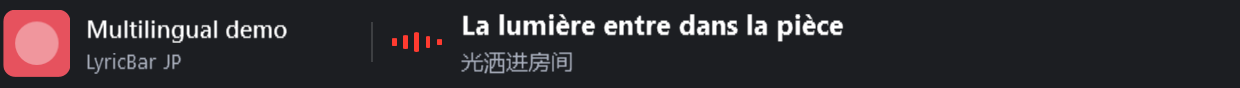
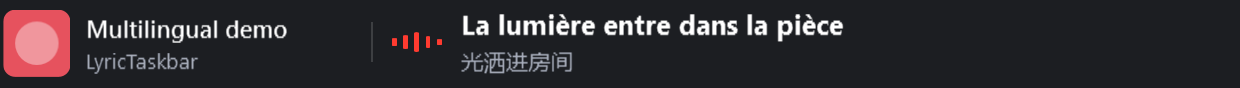
Rename project to LyricTaskbar and migrate legacy startup entries

Changed region(s): [[0.0919, 0.6136, 0.1839, 0.7955]]

diff --git a/Views/TaskbarLyricsWindow.xaml b/Views/TaskbarLyricsWindow.xaml
@@ -6,7 +6,7 @@
         xmlns:mc="http://schemas.openxmlformats.org/markup-compatibility/2006"
         xmlns:converters="clr-namespace:DesktopLyrics.Converters"
         mc:Ignorable="d"
-        Title="LyricBar JP"
+        Title="LyricTaskbar"
         ToolTip="{Binding SourceStatus}"
         WindowStyle="None"
         AllowsTransparency="True"

diff --git a/Services/AutoStartService.cs b/Services/AutoStartService.cs
@@ -10,25 +10,32 @@ public interface IAutoStartStore
     void Remove();
 }
 
-/// <summary>Owns one value in the current user's Windows login Run key.</summary>
+/// <summary>Owns the current and legacy application values in the user's Windows login Run key.</summary>
 public sealed class RegistryAutoStartStore(string keyPath = RegistryAutoStartStore.RunKey) : IAutoStartStore
 {
     public const string RunKey = @"Software\Microsoft\Windows\CurrentVersion\Run";
-    public const string ValueName = "LyricBarJP";
+    public const string ValueName = "LyricTaskbar";
+    public const string LegacyValueName = "LyricBarJP";
     public string? Read()
     {
         using var key = Registry.CurrentUser.OpenSubKey(keyPath, writable: false);
-        return key?.GetValue(ValueName) as string;
+        var current = key?.GetValue(ValueName) as string;
+        return !string.IsNullOrWhiteSpace(current) ? current : key?.GetValue(LegacyValueName) as string;
     }
     public void Write(string command)
     {
         using var key = Registry.CurrentUser.CreateSubKey(keyPath, writable: true);
         key.SetValue(ValueName, command, RegistryValueKind.String);
+        // Remove the old name only after the replacement is confirmed, avoiding duplicate starts.
+        if (!string.Equals(key.GetValue(ValueName) as string, command, StringComparison.Ordinal))
+            throw new IOException("The replacement login entry could not be saved.");
+        key.DeleteValue(LegacyValueName, throwOnMissingValue: false);
     }
     public void Remove()
     {
         using var key = Registry.CurrentUser.OpenSubKey(keyPath, writable: true);
         key?.DeleteValue(ValueName, throwOnMissingValue: false);
+        key?.DeleteValue(LegacyValueName, throwOnMissingValue: false);
     }
 }
 
@@ -39,15 +46,17 @@ public sealed class AutoStartService
     public AutoStartService(IAutoStartStore? store = null, string? executable = null)
     {
         _store = store ?? new RegistryAutoStartStore();
-        _executable = executable ?? Environment.ProcessPath ?? Path.Combine(AppContext.BaseDirectory, "LyricBarJP.exe");
+        _executable = executable ?? Environment.ProcessPath ?? Path.Combine(AppContext.BaseDirectory, "LyricTaskbar.exe");
     }
     public bool IsEnabled => !string.IsNullOrWhiteSpace(_store.Read());
     public static bool IsStartupInvocation(string[] args) => args.Length == 1 && args[0] == "--startup";
     public static string CommandFor(string executable)
     {
         var path = Path.GetFullPath(executable);
-        if (!string.Equals(Path.GetFileName(path), "LyricBarJP.exe", StringComparison.OrdinalIgnoreCase) || path.Contains('"'))
-            throw new InvalidOperationException("Use the published LyricBarJP.exe to configure auto-start.");
+        string name = Path.GetFileName(path);
+        if ((!string.Equals(name, "LyricTaskbar.exe", StringComparison.OrdinalIgnoreCase)
+            && !string.Equals(name, "LyricBarJP.exe", StringComparison.OrdinalIgnoreCase)) || path.Contains('"'))
+            throw new InvalidOperationException("Use the published LyricTaskbar.exe to configure auto-start.");
         return $"\"{path}\" --startup";
     }
     public void SetEnabled(bool enabled)

diff --git a/App.xaml.cs b/App.xaml.cs
@@ -51,6 +51,7 @@ namespace DesktopLyrics
                 return;
             }
 
+            // Retain the legacy mutex so old and renamed versions cannot run together.
             _instanceMutex = new System.Threading.Mutex(true, "Local\\LyricBarJP-Personal", out var created);
             if (!created) { Shutdown(); return; }
 
@@ -76,7 +77,7 @@ namespace DesktopLyrics
             catch (Exception ex) { System.Diagnostics.Debug.WriteLine($"[AutoStart] {ex.Message}"); }
             _lyricsService = new LyricsService();
             _mediaService = new MediaSessionService();
-            // Personal build keeps its Japanese additions; upstream update prompts are disabled.
+            // Automatic update prompts remain disabled for this derivative.
             _viewModel = new LyricsViewModel(_mediaService, _lyricsService, _settingsService);
 
             _lyricsWindow = new TaskbarLyricsWindow(_viewModel);
@@ -112,7 +113,7 @@ namespace DesktopLyrics
             _notifyIcon = new NotifyIcon
             {
                 Icon = _appIcon,
-                Text = "LyricBar JP - 多语言双语歌词",
+                Text = "LyricTaskbar - 多语言双语歌词",
                 Visible = true
             };
 
@@ -225,7 +226,7 @@ namespace DesktopLyrics
             {
                 MessageBox.Show(
                     I18n.AboutDialog(UpdateCheckService.CurrentVersion),
-                    "LyricBar",
+                    "LyricTaskbar",
                     MessageBoxButton.OK,
                     MessageBoxImage.Information);
             });
@@ -292,7 +293,7 @@ namespace DesktopLyrics
             autoStartItem.Click += (s, e) =>
             {
                 try { _autoStartService?.SetEnabled(!(_autoStartService?.IsEnabled ?? false)); }
-                catch (Exception ex) { MessageBox.Show(I18n.AutoStartFailed + "\n" + ex.Message, "LyricBar JP", MessageBoxButton.OK, MessageBoxImage.Warning); }
+                catch (Exception ex) { MessageBox.Show(I18n.AutoStartFailed + "\n" + ex.Message, "LyricTaskbar", MessageBoxButton.OK, MessageBoxImage.Warning); }
                 RefreshAutoStartItem();
             };
             RefreshAutoStartItem();
@@ -321,7 +322,7 @@ namespace DesktopLyrics
         {
             if (_mediaService?.CurrentTrack.IsEmpty != false)
             {
-                MessageBox.Show(I18n.PlayFirst, "LyricBar JP"); return;
+                MessageBox.Show(I18n.PlayFirst, "LyricTaskbar"); return;
             }
             try
             {
@@ -332,7 +333,7 @@ namespace DesktopLyrics
                 if (translated.ShowDialog() == DialogResult.OK) translation = LocalLyricsStore.ReadLrcFile(translated.FileName);
                 _viewModel?.ImportLyrics(LocalLyricsStore.ReadLrcFile(original.FileName), translation);
             }
-            catch (Exception ex) { MessageBox.Show(ex.Message, "LyricBar JP", MessageBoxButton.OK, MessageBoxImage.Warning); }
+            catch (Exception ex) { MessageBox.Show(ex.Message, "LyricTaskbar", MessageBoxButton.OK, MessageBoxImage.Warning); }
         }
 
         private void PopulateMonitorMenu(ToolStripMenuItem monitorMenu)

diff --git a/Services/AutoStartDiagnostics.cs b/Services/AutoStartDiagnostics.cs
@@ -9,7 +9,7 @@ public static class AutoStartDiagnostics
     public static void Verify(string path)
     {
         // This private HKCU test key is not a Windows Run key and cannot launch anything.
-        string testKey = @"Software\LyricBarJP-AutoStartTest-" + Guid.NewGuid().ToString("N");
+        string testKey = @"Software\LyricTaskbar-AutoStartTest-" + Guid.NewGuid().ToString("N");
         var production = new RegistryAutoStartStore(); string? originalProduction = production.Read();
         var checks = new List<string>();
         void Check(bool value, string label) { if (!value) throw new InvalidOperationException(label); checks.Add(label); }
@@ -23,6 +23,19 @@ public static class AutoStartDiagnostics
             Check(store.Read() == AutoStartService.CommandFor(Environment.ProcessPath!), "published executable is quoted and registered with --startup");
             service.SetEnabled(false);
             Check(!service.IsEnabled, "disabling removes the owned registry value");
+            using (var key = Registry.CurrentUser.OpenSubKey(testKey, writable: true))
+                key!.SetValue(RegistryAutoStartStore.LegacyValueName, "\"C:\\old folder\\LyricBarJP.exe\" --startup");
+            Check(service.IsEnabled, "existing legacy registry name is detected as enabled");
+            service.RefreshRegisteredPath();
+            using (var key = Registry.CurrentUser.OpenSubKey(testKey))
+                Check((string?)key!.GetValue(RegistryAutoStartStore.ValueName) == AutoStartService.CommandFor(Environment.ProcessPath!)
+                    && key.GetValue(RegistryAutoStartStore.LegacyValueName) == null, "legacy login entry migrates to the new name and executable with no duplicate entry");
+            using (var key = Registry.CurrentUser.OpenSubKey(testKey, writable: true))
+                key!.SetValue(RegistryAutoStartStore.LegacyValueName, "legacy fixture");
+            service.SetEnabled(false);
+            using (var key = Registry.CurrentUser.OpenSubKey(testKey))
+                Check(key!.GetValue(RegistryAutoStartStore.ValueName) == null && key.GetValue(RegistryAutoStartStore.LegacyValueName) == null,
+                    "disabling clears both owned login names so the old version cannot restart");
             using (var key = Registry.CurrentUser.OpenSubKey(testKey)) Check((string?)key?.GetValue("OtherApplication") == "keep", "unrelated registry values are preserved");
             Check(production.Read() == originalProduction, "real Windows auto-start setting remains unchanged");
         }

diff --git a/Tests/AutoStartChecks.cs b/Tests/AutoStartChecks.cs
@@ -6,7 +6,7 @@ internal static class AutoStartChecks
     public static void Run(Action<bool, string> check, string scratch)
     {
         var store = new FakeStore();
-        var executable = Path.Combine(scratch, "歌词程序 with spaces", "LyricBarJP.exe");
+        var executable = Path.Combine(scratch, "歌词程序 with spaces", "LyricTaskbar.exe");
         Directory.CreateDirectory(Path.GetDirectoryName(executable)!); File.WriteAllText(executable, "isolated executable fixture");
         var service = new AutoStartService(store, executable);
         service.RefreshRegisteredPath();
@@ -20,10 +20,12 @@ internal static class AutoStartChecks
         check(store.Command == AutoStartService.CommandFor(executable), "an already-enabled entry follows the new release location");
         int writes = store.Writes; service.RefreshRegisteredPath();
         check(store.Writes == writes, "unchanged startup paths are not repeatedly rewritten");
+        var legacyExecutable = Path.Combine(scratch, "旧版文件夹", "LyricBarJP.exe");
+        check(AutoStartService.CommandFor(legacyExecutable) == $"\"{legacyExecutable}\" --startup", "legacy executable filename remains accepted when upgrading in place");
         check(AutoStartService.IsStartupInvocation(new[] { "--startup" }) && !AutoStartService.IsStartupInvocation(Array.Empty<string>()) && !AutoStartService.IsStartupInvocation(new[] { "--probe", "a" }), "login launch is accepted without confusing diagnostic commands");
         try { AutoStartService.CommandFor(Path.Combine(scratch, "dotnet.exe")); check(false, "invalid launch host"); }
         catch (InvalidOperationException) { check(true, "the dotnet host cannot accidentally become the startup application"); }
-        var missing = new AutoStartService(new FakeStore(), Path.Combine(scratch, "missing", "LyricBarJP.exe"));
+        var missing = new AutoStartService(new FakeStore(), Path.Combine(scratch, "missing", "LyricTaskbar.exe"));
         try { missing.SetEnabled(true); check(false, "missing startup executable"); }
         catch (FileNotFoundException) { check(!missing.IsEnabled, "missing executables cannot create a broken startup entry"); }
         var failedStore = new FakeStore { RejectWrites = true };

diff --git a/Services/UpdateCheckService.cs b/Services/UpdateCheckService.cs
@@ -10,8 +10,8 @@ namespace DesktopLyrics.Services
 {
     public class UpdateCheckService
     {
-        public const string CurrentVersion = "v1.5.1-personal";
-        private const string GitHubApiLatestUrl = "https://api.github.com/repos/ysheng920/LyricBar/releases/latest";
+        public const string CurrentVersion = "v1.5.2";
+        private const string GitHubApiLatestUrl = "https://api.github.com/repos/ERiC808222/LyricTaskbar/releases/latest";
 
         private readonly HttpClient _httpClient;
         private readonly DispatcherTimer _periodicTimer;
@@ -28,7 +28,7 @@ namespace DesktopLyrics.Services
             {
                 Timeout = TimeSpan.FromSeconds(8)
             };
-            _httpClient.DefaultRequestHeaders.Add("User-Agent", "LyricBar-UpdateChecker");
+            _httpClient.DefaultRequestHeaders.Add("User-Agent", "LyricTaskbar-UpdateChecker");
 
             // Periodic check every 6 hours
             _periodicTimer = new DispatcherTimer
@@ -57,7 +57,7 @@ namespace DesktopLyrics.Services
                 {
                     LatestVersion = release.TagName.Trim();
                     LatestReleaseUrl = string.IsNullOrWhiteSpace(release.HtmlUrl)
-                        ? "https://github.com/ysheng920/LyricBar/releases/latest"
+                        ? "https://github.com/ERiC808222/LyricTaskbar/releases/latest"
                         : release.HtmlUrl;
 
                     if (IsNewerVersion(LatestVersion, CurrentVersion))
@@ -102,7 +102,7 @@ namespace DesktopLyrics.Services
             try
             {
                 var targetUrl = string.IsNullOrWhiteSpace(url)
-                    ? "https://github.com/ysheng920/LyricBar/releases/latest"
+                    ? "https://github.com/ERiC808222/LyricTaskbar/releases/latest"
                     : url;
 
                 Process.Start(new ProcessStartInfo

diff --git a/Services/I18nService.cs b/Services/I18nService.cs
@@ -90,8 +90,8 @@ public static class I18n
     public static string NewVersionFound(string tag) => tag;
     public static string NewVersionNotificationTitle(string tag) => tag;
     public static string NewVersionNotificationBody => T("View upstream releases", "查看原版发布", "元のリリースを表示");
-    public static string AboutMenu => T("About LyricBar JP", "关于 LyricBar JP", "LyricBar JPについて");
-    public static string AboutDialog(string version) => $"LyricBar JP {version}\n" + T("Multilingual lyrics with available Chinese translations. Based on ysheng920/LyricBar (MIT).", "多语言原歌词＋现有中文译文。基于 ysheng920/LyricBar（MIT），保留原版许可。", "多言語の歌詞＋既存の中国語訳。ysheng920/LyricBar（MIT）を基に作成。");
+    public static string AboutMenu => T("About LyricTaskbar", "关于 LyricTaskbar", "LyricTaskbarについて");
+    public static string AboutDialog(string version) => $"LyricTaskbar {version}\n" + T("Multilingual lyrics with available Chinese translations. Based on ysheng920/LyricBar (MIT).", "多语言原歌词＋现有中文译文。基于 ysheng920/LyricBar（MIT），保留原版许可。", "多言語の歌詞＋既存の中国語訳。ysheng920/LyricBar（MIT）を基に作成。");
     public static string LyricsSourceMenu => T("Lyrics source", "歌词来源", "歌詞の取得先");
     public static string SourceModeName(LyricsSourceMode mode) => mode switch
     {

diff --git a/Tests/Program.cs b/Tests/Program.cs
@@ -8,7 +8,7 @@ using DesktopLyrics.Services;
 
 var count = 0;
 void Check(bool condition, string name) { if (!condition) throw new Exception(name); Console.WriteLine("PASS " + name); count++; }
-var scratch = Path.Combine(Path.GetTempPath(), "LyricBar-tests-" + Guid.NewGuid());
+var scratch = Path.Combine(Path.GetTempPath(), "LyricTaskbar-tests-" + Guid.NewGuid());
 Directory.CreateDirectory(scratch);
 
 var lines = LrcParser.ParseBilingual("[offset:+100]\n[00:01.050]窓の光\n[00:02.000]\n[00:03.000]雨の音", "[offset:+100]\n[00:01.070]窗边的光\n[00:09.000]不要错配");
@@ -50,7 +50,7 @@ AutoStartChecks.Run(Check, scratch);
 FullscreenChecks.Run(Check, scratch);
 DisplayPlacementChecks.Run(Check);
 await MultilingualChecks.Run(Check, scratch);
-foreach (var language in Enum.GetValues<AppLanguage>()) { I18n.CurrentLanguage = language; Check(I18n.SelectTranslation.Length > 0 && I18n.AboutDialog("1.2").Length > 0, "localized UI " + language); }
+foreach (var language in Enum.GetValues<AppLanguage>()) { I18n.CurrentLanguage = language; Check(I18n.SelectTranslation.Length > 0 && I18n.AboutDialog("1.2").Contains("LyricTaskbar") && I18n.AboutMenu.Contains("LyricTaskbar"), "localized UI " + language); }
 Console.WriteLine($"{count} checks passed.");
 
 sealed class FakeHandler(bool qqTranslation) : HttpMessageHandler

diff --git a/Services/MultilingualDiagnostics.cs b/Services/MultilingualDiagnostics.cs
@@ -31,7 +31,7 @@ public static class MultilingualDiagnostics
         Directory.CreateDirectory(folder); var checks = new List<string>();
         void Check(bool value, string name) { if (!value) throw new InvalidOperationException(name); checks.Add(name); }
         var media = new MediaSessionService(); var settings = new SettingsService(Path.Combine(folder, "isolated-settings"));
-        var model = new LyricsViewModel(media, new LyricsService(), settings) { Theme = AppTheme.Dark, TrackTitle = "Multilingual demo", TrackArtist = "LyricBar JP", CoverArt = DemoCover(Color.FromRgb(230, 82, 94)) };
+        var model = new LyricsViewModel(media, new LyricsService(), settings) { Theme = AppTheme.Dark, TrackTitle = "Multilingual demo", TrackArtist = "LyricTaskbar", CoverArt = DemoCover(Color.FromRgb(230, 82, 94)) };
         var samples = new Dictionary<string, (string Original, string Chinese)>
         {
             ["korean"] = ("봄빛이 창가에 머물러요", "春光停在窗边"), ["tibetan"] = ("བོད་སྐད་ཀྱི་གླུ་དབྱངས་སྙན་མོ།", "藏语歌声悠扬"),

diff --git a/Services/LyricsService.cs b/Services/LyricsService.cs
@@ -21,7 +21,7 @@ public class LyricsService
     public LyricsService(HttpClient? http = null, LocalLyricsStore? local = null, LyricsSourceMode mode = LyricsSourceMode.Auto)
     {
         _http = http ?? new HttpClient { Timeout = TimeSpan.FromSeconds(7) };
-        _http.DefaultRequestHeaders.TryAddWithoutValidation("User-Agent", "LyricBarJP/1.2 (personal desktop lyrics)");
+        _http.DefaultRequestHeaders.TryAddWithoutValidation("User-Agent", "LyricTaskbar/1.5.2 (desktop lyrics)");
         _local = local ?? new LocalLyricsStore();
         _apple = new AppleLyricsSource(http);
         _amll = new AmllLyricsSource(http);

diff --git a/README.md b/README.md
@@ -1,12 +1,12 @@
-<p align="center"><img src="Assets/AppIcon.png" width="96" alt="LyricBar JP 图标" /></p>
+<p align="center"><img src="Assets/AppIcon.png" width="96" alt="LyricTaskbar 图标" /></p>
 
-# LyricBar JP
+# LyricTaskbar
 
 Windows 11 任务栏歌词工具，优先识别 Windows 版 Apple Music，显示原文歌词和已有中文译文。
 
-基于 [ysheng920/LyricBar](https://github.com/ysheng920/LyricBar) 的独立修改版，沿用 MIT 许可证。当前版本 **1.5.1**。
+基于 [ysheng920/LyricBar](https://github.com/ysheng920/LyricBar) 的独立修改版，沿用 MIT 许可证。当前版本 **1.5.2**。
 
-[下载 Windows x64 版](https://github.com/ERiC808222/LyricBar-JP/releases/latest) · [更新记录](CHANGELOG.md) · [项目来源](UPSTREAM.md) · [验证范围](docs/VALIDATION.md)
+[下载 Windows x64 版](https://github.com/ERiC808222/LyricTaskbar/releases/latest) · [更新记录](CHANGELOG.md) · [项目来源](UPSTREAM.md) · [验证范围](docs/VALIDATION.md)
 
 ## 功能
 
@@ -28,10 +28,12 @@ Windows 11 任务栏歌词工具，优先识别 Windows 版 Apple Music，显示
 
 ## 下载与使用
 
-1. 在 [Releases](https://github.com/ERiC808222/LyricBar-JP/releases/latest) 下载 `LyricBar-JP-v1.5.1-win-x64.zip`，解压到固定目录。
+1. 在 [Releases](https://github.com/ERiC808222/LyricTaskbar/releases/latest) 下载 `LyricTaskbar-v1.5.2-win-x64.zip`，解压到固定目录。
 2. 安装 **.NET 9 Desktop Runtime x64**（需要 Desktop Runtime，而不是仅 .NET Runtime）。[微软下载页](https://dotnet.microsoft.com/download/dotnet/9.0)。
-3. 运行 `LyricBarJP.exe`，再打开 Windows 版 Apple Music 播放歌曲。
+3. 运行 `LyricTaskbar.exe`，再打开 Windows 版 Apple Music 播放歌曲。
 4. 右键托盘图标设置歌词来源、界面语言、显示效果、开机自启等；双击托盘图标切换位置锁定。
+
+本项目原名 LyricBar JP，1.5.2 起改名为 **LyricTaskbar**。从旧版更新时，可将原 `Data` 目录放到新 EXE 旁；已开启的开机自启会迁移至新名称和路径，关闭状态不会自动开启。
 
 程序使用便携式配置：设置、导入歌词与索引缓存存放在 EXE 旁的 `Data` 目录。请使用有写权限的文件夹。更新时退出旧版、替换程序，保留原 `Data` 目录；开机自启已开启时，运行新位置的程序会更新该启动路径。
 
@@ -53,33 +55,33 @@ Windows 11 任务栏歌词工具，优先识别 Windows 版 Apple Music，显示
 需要 Windows x64 和 .NET 9 SDK：
 
 ```powershell
-git clone https://github.com/ERiC808222/LyricBar-JP.git
-cd LyricBar-JP
-powershell -NoProfile -ExecutionPolicy Bypass -File Build-JP.ps1
+git clone https://github.com/ERiC808222/LyricTaskbar.git
+cd LyricTaskbar
+powershell -NoProfile -ExecutionPolicy Bypass -File Build.ps1
 ```
 
-程序位于 `publish/LyricBarJP.exe`。默认依赖桌面运行库；如需将运行库一并打包：
+程序位于 `publish/LyricTaskbar.exe`。默认依赖桌面运行库；如需将运行库一并打包：
 
 ```powershell
-powershell -NoProfile -ExecutionPolicy Bypass -File Build-JP.ps1 -SelfContained
+powershell -NoProfile -ExecutionPolicy Bypass -File Build.ps1 -SelfContained
 ```
 
 运行行为检查（不会改变音乐播放）：
 
 ```powershell
-dotnet run --project Tests/LyricBar.Tests.csproj -c Release
+dotnet run --project Tests/LyricTaskbar.Tests.csproj -c Release
 ```
 
 Windows 实际窗口诊断使用屏幕外测试窗口，输出 JSON：
 
 ```powershell
-.\publish\LyricBarJP.exe --verify-visibility visibility.json
-.\publish\LyricBarJP.exe --verify-fullscreen fullscreen.json
-.\publish\LyricBarJP.exe --render-multilingual motion-proof
+.\publish\LyricTaskbar.exe --verify-visibility visibility.json
+.\publish\LyricTaskbar.exe --verify-fullscreen fullscreen.json
+.\publish\LyricTaskbar.exe --render-multilingual motion-proof
 ```
 
 ## 来源与许可证
 
 原项目：[ysheng920/LyricBar](https://github.com/ysheng920/LyricBar)，基于提交 `8d21e853ff2ada701e25a3a362904a5f4ea5be3a`。保留原作者和贡献者的 MIT 版权声明；详见 [LICENSE](LICENSE) 和 [UPSTREAM.md](UPSTREAM.md)。本项目与 Apple 无隶属关系。
 
-LyricBar JP is a Windows 11 taskbar lyrics overlay derived from LyricBar. It prioritizes Apple Music media sessions, supports multilingual original lyrics with existing Chinese translations, and includes configurable transitions, timing offsets, fullscreen behavior and DPI-safe recovery. Windows x64 and .NET 9 Desktop Runtime are required.
+LyricTaskbar is a Windows 11 taskbar lyrics overlay derived from LyricBar. It prioritizes Apple Music media sessions, supports multilingual original lyrics with existing Chinese translations, and includes configurable transitions, timing offsets, fullscreen behavior and DPI-safe recovery. Windows x64 and .NET 9 Desktop Runtime are required.

diff --git a/docs/VALIDATION.md b/docs/VALIDATION.md
@@ -1,5 +1,13 @@
 # 验证范围
 
+## LyricTaskbar 1.5.2
+
+改名后重新构建，121 项行为检查通过；发布 EXE 的窗口恢复 15 项、全屏 8 项、自启与旧键迁移 9 项、多语界面与动效 17 项通过。Windows 文件属性中的产品名、标题与版本已确认。
+
+自启迁移使用隔离的真实 HKCU 测试键，确认旧 `LyricBarJP` 键被替换为 `LyricTaskbar` 且没有重复启动项；实际用户的开机自启设置未在测试中更改。旧版 `Data` 格式和单实例互斥标识保留。详见 [validation-1.5.2.json](validation-1.5.2.json)。
+
+## 1.5.1 基线
+
 1.5.1 原始功能版本于 2026-10-14 使用 .NET SDK 9.0.318 构建，构建无警告/错误：
 
 - 120 项行为检查：歌词解析、原文/译文配对、录音版本匹配、多语文字处理、播放时钟、设置、自启策略、全屏与显示器位置计算。
